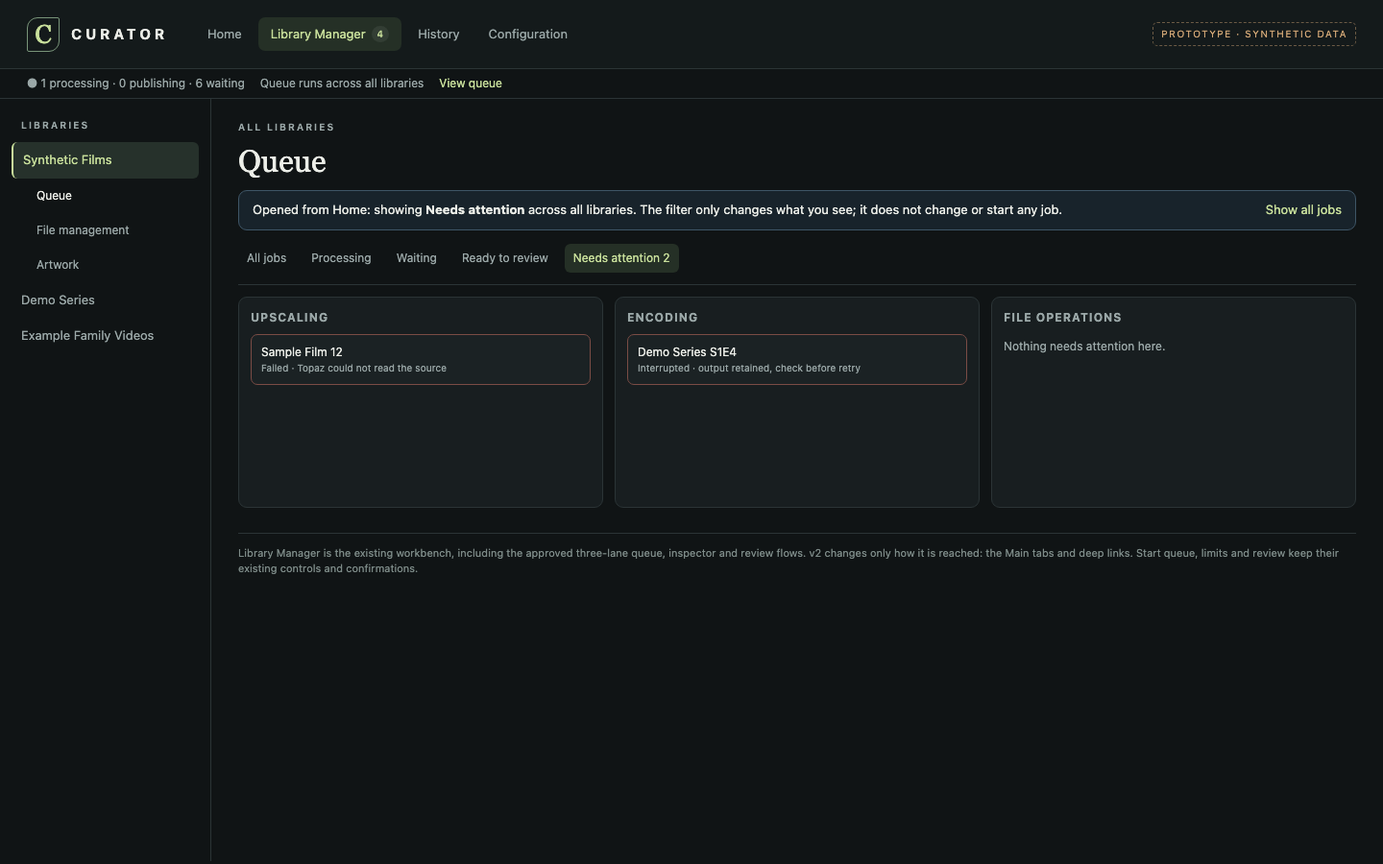
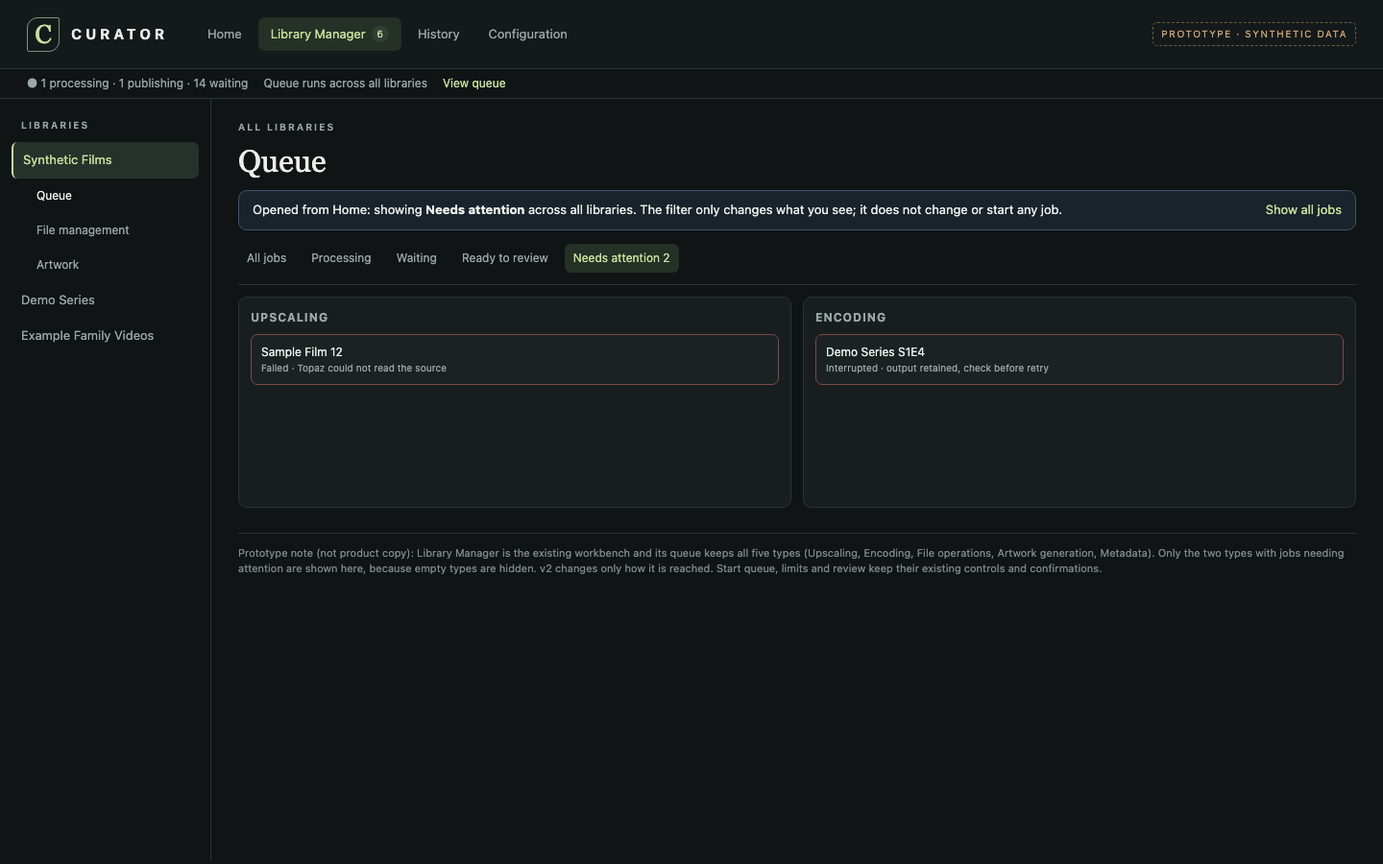
Home/navigation design: all five queue types, separate review destinations, no engineering copy (#104)
Addresses Codex review of 0d2feff: describe the queue as the existing five
task types with empty types hidden and add a populated queue render; route
metadata and artwork reviews to their existing flows with separate counts;
move issue numbers and implementation disclaimers out of product copy.

diff --git a/docs/designs/v2-home-navigation-20261120/prototype.html b/docs/designs/v2-home-navigation-20261120/prototype.html
@@ -1,7 +1,7 @@
 <!doctype html>
 <html lang="en"><head><meta charset="utf-8"><meta name="viewport" content="width=device-width,initial-scale=1">
 <title>Curator v2 — Home and navigation prototype</title>
-<!-- Design prototype for issue #104. Synthetic data only; not served by Curator and not wired to any API. -->
+<!-- Design prototype for issue #104 (provenance only; no issue numbers in product copy). Synthetic data only; not served by Curator and not wired to any API. -->
 <style>
 :root{color-scheme:dark;--bg:#101415;--panel:#181e20;--panel2:#1c2426;--line:#2b3436;--text:#eceee8;--muted:#9ba8a8;--accent:#c8df9b;--warm:#d2a776;--bad:#e5a49b;--info:#9ec3df}
 *{box-sizing:border-box}body{margin:0;background:var(--bg);color:var(--text);font:14px/1.5 -apple-system,BlinkMacSystemFont,"Segoe UI",sans-serif}
@@ -30,7 +30,7 @@ main{padding:26px 34px 60px;max-width:1280px;min-width:0}h1{font-family:Georgia,
 /* Library Manager: the existing workbench, unchanged */
 .workbench{display:grid;grid-template-columns:220px minmax(0,1fr);min-height:calc(100vh - 106px)}.side{border-right:1px solid var(--line);padding:20px 12px}.side a{display:block;color:var(--muted);padding:9px 10px;border-radius:6px;font-size:13px}.side a.sel{background:#26312b;color:var(--accent);border-left:2px solid var(--accent)}.side .sublink{padding-left:26px;font-size:12px}.side .sublink.sel{background:none;border:0;color:var(--text)}
 .wb-main{padding:22px 28px}.toolbar{display:flex;gap:8px;flex-wrap:wrap;border-bottom:1px solid var(--line);padding-bottom:12px;margin-bottom:12px}.toolbar a{font-size:12px;color:var(--muted);padding:6px 9px;border-radius:6px}.toolbar a.active{color:var(--accent);background:#253026}
-.lanes{display:grid;grid-template-columns:repeat(3,minmax(0,1fr));gap:12px}.lane{border:1px solid var(--line);border-radius:9px;background:var(--panel);padding:12px;min-height:220px}.lane h3{font-size:12px;margin:0 0 8px;color:var(--muted);letter-spacing:1px}.job{border:1px solid #303b3c;border-radius:7px;padding:9px 10px;margin:7px 0;font-size:12px;background:#1b2224}.job.attn{border-color:#7a4c45}.job small{display:block;color:var(--muted)}
+.lane .more{padding:4px 10px;font-size:12px;margin-top:4px}.lanes{display:grid;grid-template-columns:repeat(auto-fit,minmax(210px,1fr));gap:12px}.lane{border:1px solid var(--line);border-radius:9px;background:var(--panel);padding:12px;min-height:220px}.lane h3{font-size:12px;margin:0 0 8px;color:var(--muted);letter-spacing:1px}.job{border:1px solid #303b3c;border-radius:7px;padding:9px 10px;margin:7px 0;font-size:12px;background:#1b2224}.job.attn{border-color:#7a4c45}.job small{display:block;color:var(--muted)}
 .split{display:grid;grid-template-columns:minmax(0,1.2fr) minmax(280px,1fr);gap:14px}.inspector{border:1px solid #3b493d;border-radius:10px;background:#1c241f;padding:16px}.inspector input,.inspector textarea{width:100%;background:#11191a;color:var(--text);border:1px solid #3b4747;border-radius:6px;padding:8px;margin:4px 0 10px;font:inherit}
 .row{display:flex;gap:8px;align-items:center;flex-wrap:wrap}.muted{color:var(--muted);font-size:12px}
 .history-row{border-bottom:1px solid var(--line);padding:12px 4px;display:flex;gap:12px;align-items:center}.history-row div{flex:1}.history-row p{margin:2px 0;font-size:12px;color:var(--muted)}
@@ -55,15 +55,15 @@ const ARRIVALS=[['Sample Film 31','films','ok'],['Sample Film 32','films','todo:
 const HEALTH=[['films','Movies',[96,null,null,81,88]],['series','TV Shows',[99,null,null,90,93]],['family','Other Videos',[62,48,71,85,null]]];
 const DIMS=['Metadata','Cast','Artwork','Upscaling','Re-encoding'];
 const hash=new URLSearchParams(location.hash.slice(1)),S=hash.get('s')||'home';
-const route={home:'home',loading:'home',error:'home',empty:'home',focus:'home',library:'library',draft:'library',history:'history',config:'config'}[S]||'home';
+const route={home:'home',loading:'home',error:'home',empty:'home',focus:'home',library:'library',queue:'library',draft:'library',history:'history',config:'config'}[S]||'home';
 const h=(tag,attrs={},...kids)=>{const e=document.createElement(tag);for(const [k,v] of Object.entries(attrs)){if(k==='class')e.className=v;else if(k.startsWith('on'))e[k]=v;else if(v!=null&&v!==false)e.setAttribute(k,v===true?'':v);}for(const k of kids.flat())if(k!=null&&k!==false)e.append(k instanceof Node?k:document.createTextNode(k));return e;};
 const link=(href,text,attrs={})=>h('a',{href,...attrs},text);
 // Routes are the navigation contract in README.md. Every link below is a real, shareable hash URL.
 const R={home:'#/home',lib:(id,view,q='')=>`#/library/${id}/${view}${q}`,history:q=>'#/history'+q,config:p=>'#/configuration/'+p};
-function tabs(){const t=document.getElementById('tabs');const items=[['home','Home',R.home],['library','Library Manager',R.lib('films','files'),h('span',{class:'count',title:'Results ready to review'},'4')],['history','History',R.history('')],['config','Configuration',R.config('standards/movie')]];
+function tabs(){const t=document.getElementById('tabs');const items=[['home','Home',R.home],['library','Library Manager',R.lib('films','files'),h('span',{class:'count',title:'Ready to review: 3 results to publish, 2 metadata suggestions, 1 artwork change'},'6')],['history','History',R.history('')],['config','Configuration',R.config('standards/movie')]];
  t.replaceChildren(...items.map(([key,label,href,badge])=>h('a',{href,'aria-current':route===key?'page':null,class:S==='focus'&&key==='library'?'force-focus':null},label,badge||null)));}
 function status(){const s=document.getElementById('status');s.replaceChildren(
- S==='error'?h('span',{class:'bad'},'Connection interrupted. Showing the update from 14:02; reconnecting automatically.'):h('span',{},'● 1 processing · 0 publishing · 6 waiting'),
+ S==='error'?h('span',{class:'bad'},'Connection interrupted. Showing the update from 14:02; reconnecting automatically.'):h('span',{},'● 1 processing · 1 publishing · 14 waiting'),
  h('span',{},'Queue runs across all libraries'),link(R.lib('films','queue'),'View queue'));}
 // ---- Home ----
 function home(){
@@ -73,12 +73,14 @@ function home(){
  const grid=h('div',{class:'home'});
  const loading=S==='loading',sk=n=>Array.from({length:n},()=>h('div',{class:'skeleton'}));
  // 1. Decisions
- grid.append(h('section',{class:'card span-7','aria-labelledby':'d-h'},h('div',{class:'card-head'},h('h2',{id:'d-h'},'Needs your decision'),link(R.lib('all','review'),'Open review')),
+ grid.append(h('section',{class:'card span-7','aria-labelledby':'d-h'},h('div',{class:'card-head'},h('h2',{id:'d-h'},'Needs your decision'),link(R.lib('all','queue','?status=review'),'All reviews')),
   ...(loading?sk(3):[
-   decision('4','Results are ready to review','Upscales and encodes wait for your comparison before publishing',R.lib('all','review'),'Review results'),
+   decision('3','Results are ready to publish','Upscales, encodes and joins wait for your comparison before publishing',R.lib('all','review','?kind=all'),'Review results'),
+   decision('2','Metadata suggestions to review','Preview each change, then save it to Plex yourself',R.lib('all','queue','?status=review&lane=metadata'),'Review metadata'),
+   decision('1','Artwork change to approve','Compare the current and proposed artwork before it is queued',R.lib('films','artwork','?status=review'),'Review artwork'),
    decision('2','Jobs need attention','One failed, one interrupted · History shows the safe next step',R.lib('all','queue','?status=attention'),'Open in Queue','bad'),
    decision('9','Family videos are missing dates','Other Videos standard · Metadata',R.lib('family','files','?view=attention&dimension=metadata'),'Open in Library Manager','warm'),
-   decision('1','Standards question','“Preserve originals” wording needs your confirmation',R.config('standards/other_videos'),'Open Configuration','warm')])));
+   decision('1','Standards question','An Other Videos setting needs your confirmation',R.config('standards/other_videos'),'Open Configuration','warm')])));
  // 2. Work accomplished
  grid.append(h('section',{class:'card span-5','aria-labelledby':'w-h'},h('div',{class:'card-head'},h('h2',{id:'w-h'},'Work accomplished'),h('span',{class:'muted'},'Last 7 days')),
   ...(loading?sk(3):[h('div',{class:'stat'},h('div',{},h('b',{},'38'),h('small',{},'jobs completed')),h('div',{},h('b',{},'11'),h('small',{},'upscales published')),h('div',{},h('b',{},'214 GB'),h('small',{},'saved by re-encoding'))),
@@ -89,11 +91,11 @@ function home(){
  // 4. Library health
  grid.append(h('section',{class:'card span-4','aria-labelledby':'hl-h'},h('div',{class:'card-head'},h('h2',{id:'hl-h'},'Library health'),link(R.config('standards/movie'),'Standards')),
   loading?h('div',{},...sk(4)):h('table',{class:'health'},h('thead',{},h('tr',{},h('th',{},'Library'),h('th',{},'Lowest dimension'))),h('tbody',{},...HEALTH.map(([id,type,v])=>{const on=v.map((x,i)=>[x,DIMS[i]]).filter(([x])=>x!=null).sort((a,b)=>a[0]-b[0]);const [pct,dim]=on[0];return h('tr',{},h('td',{},link(R.lib(id,'files','?view=attention'),LIBS.find(l=>l.id===id).title),h('div',{class:'muted'},type+' · '+on.length+' of 5 dimensions')),h('td',{},h('span',{class:'bar'},h('i',{style:`width:${pct}%`})),pct+'% '+dim.toLowerCase()));}))),
-  h('p',{class:'muted',style:'margin:8px 0 0'},'Percent of items meeting each enabled dimension of the library’s standard (#107). Dimensions a standard turns off are not counted.')));
+  h('p',{class:'muted',style:'margin:8px 0 0'},'Percent of items meeting each enabled dimension of the library’s standard. Dimensions a standard turns off are not counted.')));
  // 5. Seer + recommendations: future sources with explicit empty states
- grid.append(h('section',{class:'card span-6','aria-labelledby':'s-h'},h('div',{class:'card-head'},h('h2',{id:'s-h'},'Requests that landed')),h('div',{class:'empty'},'Seer is not connected. Requests will appear here once matching to Plex is agreed (#114) and connected (#115).')));
- grid.append(h('section',{class:'card span-6','aria-labelledby':'r-h'},h('div',{class:'card-head'},h('h2',{id:'r-h'},'Worth watching')),h('div',{class:'empty'},'Recommendations are not set up. Sources and permissions are being agreed (#112); nothing is requested or bought from here.')));
- m.append(grid);m.append(h('p',{class:'note'},'Prototype for issue #104. Synthetic libraries, titles and counts. Library health and arrival status need standards evaluation (#107); Requests and Worth watching show their not-connected states.'));
+ grid.append(h('section',{class:'card span-6','aria-labelledby':'s-h'},h('div',{class:'card-head'},h('h2',{id:'s-h'},'Requests that landed')),h('div',{class:'empty'},'Seer is not connected. Requests that have landed in Plex will appear here once it is.')));
+ grid.append(h('section',{class:'card span-6','aria-labelledby':'r-h'},h('div',{class:'card-head'},h('h2',{id:'r-h'},'Worth watching')),h('div',{class:'empty'},'Recommendations are not set up yet. Nothing is requested or bought from here.')));
+ m.append(grid);m.append(h('p',{class:'note'},'Prototype note (not product copy): synthetic libraries, titles and counts. Health and arrival status need standards evaluation; Requests and Worth watching show their not-connected states.'));
  return m;
 }
 function decision(n,title,detail,href,action,tone=''){return h('div',{class:'decision'},h('span',{class:'n '+tone},n),h('p',{},title,h('small',{},detail)),link(href,action));}
@@ -101,14 +103,19 @@ function decision(n,title,detail,href,action,tone=''){return h('div',{class:'dec
 function library(){
  const wrap=h('div',{class:'workbench'});
  const side=h('nav',{class:'side','aria-label':'Libraries'},h('div',{class:'eyebrow',style:'margin:0 10px 10px'},'LIBRARIES'),
-  ...LIBS.flatMap(l=>l.id==='films'?[link(R.lib(l.id,'files'),l.title,{class:'sel','aria-current':'true'}),link(R.lib(l.id,'queue'),'Queue',{class:'sublink'+(S==='library'?' sel':'')}),link(R.lib(l.id,'filemanagement'),'File management',{class:'sublink'}),link(R.lib(l.id,'artwork'),'Artwork',{class:'sublink'})]:[link(R.lib(l.id,'files'),l.title)]));
+  ...LIBS.flatMap(l=>l.id==='films'?[link(R.lib(l.id,'files'),l.title,{class:'sel','aria-current':'true'}),link(R.lib(l.id,'queue'),'Queue',{class:'sublink'+(S==='library'||S==='queue'?' sel':'')}),link(R.lib(l.id,'filemanagement'),'File management',{class:'sublink'}),link(R.lib(l.id,'artwork'),'Artwork',{class:'sublink'})]:[link(R.lib(l.id,'files'),l.title)]));
  const main=h('main',{class:'wb-main',id:'main',tabindex:'-1'});
- if(S==='library'){
+ if(S==='queue'){
+  main.append(h('div',{class:'eyebrow'},'ALL LIBRARIES'),h('h1',{},'Queue'),
+   h('div',{class:'toolbar'},...[['All jobs 24',''],['Processing 2','running'],['Waiting 14','queued'],['Ready to review 6','review'],['Needs attention 2','attention']].map(([t,v])=>link(R.lib('all','queue','?status='+v),t,{class:v===''?'active':''}))),
+   h('div',{class:'lanes'},...QUEUE.map(([title,running,jobs,more])=>lane(title,jobs,running,more))),
+   h('p',{class:'note'},'Prototype note (not product copy): all five queue types are shown because each has jobs. A type with no jobs in the current filter is hidden. Long waiting groups collapse; running and publishing work stays visible. Results ready to publish are counted under Ready to review and compared there, not shown in the lanes; artwork and metadata reviews stay in their own lanes and flows.'));
+ }else if(S==='library'){
   main.append(h('div',{class:'eyebrow'},'ALL LIBRARIES'),h('h1',{},'Queue'),
    h('div',{class:'banner info'},h('p',{},'Opened from Home: showing ',h('b',{},'Needs attention'),' across all libraries. The filter only changes what you see; it does not change or start any job.'),link(R.lib('all','queue'),'Show all jobs')),
    h('div',{class:'toolbar'},...[['All jobs',''],['Processing','running'],['Waiting','queued'],['Ready to review','review'],['Needs attention 2','attention']].map(([t,v])=>link(R.lib('all','queue','?status='+v),t,{class:v==='attention'?'active':''}))),
-   h('div',{class:'lanes'},lane('UPSCALING',[['Sample Film 12','Failed · Topaz could not read the source',true]]),lane('ENCODING',[['Demo Series S1E4','Interrupted · output retained, check before retry',true]]),lane('FILE OPERATIONS',[])),
-   h('p',{class:'note'},'Library Manager is the existing workbench, including the approved three-lane queue, inspector and review flows. v2 changes only how it is reached: the Main tabs and deep links. Start queue, limits and review keep their existing controls and confirmations.'));
+   h('div',{class:'lanes'},lane('UPSCALING',[['Sample Film 12','Failed · Topaz could not read the source',true]]),lane('ENCODING',[['Demo Series S1E4','Interrupted · output retained, check before retry',true]])),
+   h('p',{class:'note'},'Prototype note (not product copy): Library Manager is the existing workbench and its queue keeps all five types (Upscaling, Encoding, File operations, Artwork generation, Metadata). Only the two types with jobs needing attention are shown here, because empty types are hidden. v2 changes only how it is reached. Start queue, limits and review keep their existing controls and confirmations.'));
  }else{
   main.append(h('div',{class:'eyebrow'},'SYNTHETIC FILMS'),h('h1',{},'Synthetic Films'),h('div',{class:'toolbar'},link(R.lib('films','files','?view=attention'),'Needs attention 12',{class:'active'}),link(R.lib('films','files','?view=files'),'All files 140'),link(R.lib('films','files','?view=completed'),'Completed 96')),
    h('div',{class:'split'},h('div',{},...['Sample Film 05','Sample Film 06','Sample Film 07','Sample Film 08'].map((t,i)=>h('div',{class:'job',style:i===2?'border-color:#9db485':''},t,h('small',{},i===2?'Metadata · editing':'Upscale suggested')))),
@@ -116,16 +123,23 @@ function library(){
  }
  wrap.append(side,main);return wrap;
 }
-function lane(title,jobs){return h('section',{class:'lane','aria-label':title},h('h3',{},title),...(jobs.length?jobs.map(([t,s,a])=>h('div',{class:'job'+(a?' attn':'')},t,h('small',{},s))):[h('p',{class:'muted'},'Nothing needs attention here.')]));}
+function lane(title,jobs,running,more){return h('section',{class:'lane','aria-label':title},h('h3',{},title),running?h('p',{class:'muted',style:'margin:0 0 8px;font-size:12px'},running):null,...jobs.map(([t,s,a])=>h('div',{class:'job'+(a?' attn':'')},t,h('small',{},s))),more?h('button',{class:'more'},'Show '+more+' more'):null);}
+const QUEUE=[
+ ['UPSCALING','1 running · limit 1 · across all libraries',[['Sample Film 14','Processing · 42%'],['Sample Film 15','Waiting · position 1'],['Sample Film 16','Waiting · position 2'],['Sample Film 12','Failed · Topaz could not read the source',true]],4],
+ ['ENCODING','0 running · limit 1',[['Demo Series S1E6','Waiting · position 1'],['Demo Series S1E5','Waiting · position 2'],['Demo Series S1E4','Interrupted · output retained, check before retry',true]],3],
+ ['FILE OPERATIONS','Copy/delete: 1 running total · limit 4',[['Trip - Part 1','Publishing · copying'],['Clean up originals','Waiting · 2 retained originals']],0],
+ ['ARTWORK GENERATION','0 running · limit 1',[['Sample Film 09','Waiting · approved quote, poster 2:3'],['Example Family Videos','Ready to review · background']],0],
+ ['METADATA','0 running · limit 1',[['Birthday 2026','Ready to review · 3 suggested fields'],['Beach Day','Ready to review · people'],['Sample Film 07','Waiting · apply saved changes']],0],
+];
 // ---- History: arrives with the filters from Home's link ----
 function history(){
  const m=h('main',{id:'main',tabindex:'-1'},h('div',{class:'eyebrow'},'HISTORY'),h('h1',{},'History'),
   h('div',{class:'banner info'},h('p',{},'Opened from Home → Work accomplished. Filters are in the address, so this view can be bookmarked or opened again.'),link(R.history(''),'Clear filters')),
   h('div',{class:'filters'},h('span',{},'Show ',h('b',{},'Jobs')),h('span',{},'Library ',h('b',{},'All libraries')),h('span',{},'When ',h('b',{},'Last 7 days')),h('span',{},'Status ',h('b',{},'Completed'))));
  for(const [t,k,who] of [['Sample Film 20','Upscale video · applied','Queued by You'],['Demo Series S2E1','Optimize encoding · applied','Queued by You'],['Birthday 2026','Metadata · applied','AI-assisted']])m.append(h('div',{class:'history-row'},h('div',{},h('b',{},t),h('p',{},k+' · '+who)),h('button',{},'View')));
- m.append(h('p',{class:'note'},'History is the existing screen from #86 and #111; v2 only reaches it from the Main tabs and from Home links with filters in the URL.'));return m;
+ m.append(h('p',{class:'note'},'Prototype note (not product copy): History is the existing screen; v2 only reaches it from the Main tabs and from Home links with filters in the URL.'));return m;
 }
-function config(){return h('main',{id:'main',tabindex:'-1'},h('div',{class:'eyebrow'},'CONFIGURATION'),h('h1',{},'Configuration'),h('p',{class:'sub'},'Connections & tools and Processing defaults (today’s Settings), Standards by Plex type and Library overrides. The standards screens are proposed separately in #105.'),
+function config(){return h('main',{id:'main',tabindex:'-1'},h('div',{class:'eyebrow'},'CONFIGURATION'),h('h1',{},'Configuration'),h('p',{class:'sub'},'Connections & tools and Processing defaults (today’s Settings), Standards by Plex type and Library overrides.'),
  h('div',{class:'home'},...[['Connections & tools','Plex, tools, global thresholds',R.config('connections')],['Processing defaults','Per-library encode and upscale presets',R.config('processing')],['Standards by Plex type','Movies · TV Shows · Other Videos',R.config('standards/movie')],['Library overrides','Per-library differences',R.config('library/films')]].map(([t,d,href])=>h('a',{class:'card span-6',href},h('h2',{},t),h('p',{class:'muted'},d)))));}
 // ---- Render ----
 tabs();status();const page=document.getElementById('page');page.append(({home,library,history,config})[route]());

diff --git a/docs/designs/v2-home-navigation-20261120/README.md b/docs/designs/v2-home-navigation-20261120/README.md
@@ -1,10 +1,10 @@
 # Home and main navigation — proposed design, 2026-11-20
 
-Design for issue #104. **Status: proposed, awaiting operator approval.** This package holds a static prototype with synthetic data, its renders and a proposed navigation contract. It is not served by Curator, calls no API, and authorizes no implementation. #108 (navigation) and #110 (Home) implement it after approval and after the contract below is frozen.
+Design for issue #104. **Status: operator approved the displayed desktop direction on 2026-11-21 ("this looks good"); review corrections below are pending exact-head cross-review. Mobile and error scenarios have not been separately approved.** This package holds a static prototype with synthetic data, its renders and a proposed navigation contract. It is not served by Curator, calls no API, and authorizes no implementation. #108 (navigation) and #110 (Home) implement it after approval and after the contract below is frozen.
 
 Baseline: v2 `146d6ede13fe28befe76bcf9c8c4f57c32061ffa`. Sources: [product direction](../../curator-v2.md), [standards](../../curator-v2-standards.md), [history](../../curator-v2-history.md), and the approved [queue feature lock](../queue-20261117/feature-lock.md).
 
-Open `prototype.html` in a browser. `#s=` picks a scenario: `home`, `loading`, `error`, `empty`, `focus`, `library`, `draft`, `history`, `config`. Links inside the prototype show the proposed routes but do not navigate between scenarios. Every name, title and count is synthetic.
+Open `prototype.html` in a browser. `#s=` picks a scenario: `home`, `loading`, `error`, `empty`, `focus`, `library`, `queue`, `draft`, `history`, `config`. Links inside the prototype show the proposed routes but do not navigate between scenarios. Every name, title and count is synthetic.
 
 ## Renders
 
@@ -15,10 +15,11 @@ Open `prototype.html` in a browser. `#s=` picks a scenario: `home`, `loading`, `
 | [error.png](error.png) | Refresh failed: last update kept and dated, retry offered, queue unaffected |
 | [empty.png](empty.png) | No libraries connected: one action, to Configuration → Connections |
 | [focus.png](focus.png) | Keyboard: skip link and a visible focus ring on the main tabs |
-| [library.png](library.png) | Library Manager entered from Home's "Jobs need attention": the approved three-lane queue with a visible, removable filter |
+| [library.png](library.png) | Library Manager entered from Home's "Jobs need attention": the existing queue with a visible, removable filter. Only the two types with matching jobs are shown, because empty types are hidden |
+| [queue.png](queue.png) | The unfiltered queue with all five types populated: Upscaling, Encoding, File operations, Artwork generation and Metadata. Long waiting groups collapse; running and publishing work stays visible |
 | [draft.png](draft.png) | Leaving Library Manager with an unsaved editor: Keep editing / Discard and leave |
 | [history.png](history.png) | History entered from "Work accomplished": filters come from the link and can be cleared |
-| [config.png](config.png) | Configuration landing: today's Settings plus the standards sections proposed in #105 |
+| [config.png](config.png) | Configuration landing: today's Settings plus the standards sections (#105) |
 | [phone-home.png](phone-home.png), [phone-library.png](phone-library.png) | 390 px: tabs scroll sideways, cards stack, no horizontal page scroll |
 
 ## Main navigation
@@ -26,7 +27,7 @@ Open `prototype.html` in a browser. `#s=` picks a scenario: `home`, `loading`, `
 Four top-level tabs: **Home**, **Library Manager**, **History**, **Configuration**. A thin status line under the tabs, present on every tab, shows the live queue summary and that the queue runs across all libraries.
 
 - **Home** is new. It is read-only: every item is a link into the matching work. Home never starts, pauses, approves, publishes, purchases or requests anything.
-- **Library Manager** is today's workbench, unchanged. It keeps the library sidebar, with Queue, File management and Artwork indented under the selected library (approved 2026-11-18), plus the approved three-lane queue, inspector, review flows, confirmations and limits. The Library Manager tab shows the count of results ready to review, replacing the old sidebar "Ready for review" item as the approved lock asked.
+- **Library Manager** is today's workbench, unchanged. It keeps the library sidebar, with Queue, File management and Artwork indented under the selected library (approved 2026-11-18), plus the existing queue, inspector, review flows, confirmations and limits. The queue keeps all five task types (Upscaling, Encoding, File operations, Artwork generation, Metadata), hides a type with no jobs in the current filter, collapses long waiting groups and keeps active work visible. A render that shows fewer lanes is showing the non-empty ones, not a limit. The Library Manager tab shows the count of everything ready to review (results to publish, metadata suggestions and artwork changes), replacing the old sidebar "Ready for review" item as the approved lock asked.
 - **History** is the existing screen (#86, #111), moved from the sidebar to a tab.
 - **Configuration** holds today's Settings (Connections & tools, Processing defaults) plus Standards by Plex type and Library overrides (#105).
 
@@ -34,7 +35,7 @@ Four top-level tabs: **Home**, **Library Manager**, **History**, **Configuration
 
 Ordered for "review by exception": what needs you comes first.
 
-1. **Needs your decision.** Counts with one link each: results ready to review, jobs needing attention (with History's safe next step), items missing a standard's required field, and open standards questions.
+1. **Needs your decision.** Counts with one link each: results ready to publish, metadata suggestions to review and artwork changes to approve (three separate counts, each opening its own existing review flow; see Review destinations), jobs needing attention (with History's safe next step), items missing a standard's required field, and open standards questions.
 2. **Work accomplished.** Last 7 days: jobs completed, upscales published, space saved, and who started them (you, rules, AI-assisted). Links to History with those filters.
 3. **New in Plex.** Recent arrivals, each with its status against its library's standard. Each opens the item in Library Manager.
 4. **Library health.** One row per library: its Plex type, how many dimensions its standard turns on, and its lowest dimension as a percentage of items meeting it. Dimensions turned off are not counted, and health is not shown as a single grade.
@@ -51,10 +52,24 @@ Routes are hash URLs, so a view can be bookmarked, linked from Homebase, and rea
 | `#/home` | Home | — |
 | `#/library/<id>/files` | Library view of one library | `view=attention\|files\|completed`, `group=folder\|task\|movie`, `dimension=<standard dimension>`, `asset=<id>` |
 | `#/library/<id\|all>/queue` | Queue, filtered to one library or all | `status=all\|running\|queued\|review\|attention` |
-| `#/library/<id\|all>/review` | Ready to review | `kind=upscale\|optimize\|join` |
-| `#/library/<id>/filemanagement`, `#/library/<id>/artwork` | Those tools for the library | — |
+| `#/library/<id\|all>/review` | Results ready to publish (the existing review inbox) | `kind=all\|upscale\|optimize\|join` |
+| `#/library/<id\|all>/queue?status=review&lane=metadata` | Metadata suggestions awaiting review, in the Metadata lane | `lane=metadata\|mage_generation\|…` (any queue type; focuses and expands that lane) |
+| `#/library/<id>/filemanagement` | File management for the library | — |
+| `#/library/<id>/artwork` | The Artwork workspace for the library | `status=review` (artwork changes awaiting approval), `asset=<id>` |
 | `#/history` | History | `view=jobs\|curator`, `library=<id>\|all`, `period=all\|1\|7\|30`, `status=…`, `level=…` (the existing History filters) |
 | `#/configuration/<section>` | Configuration | `connections`, `processing`, `standards/<kind>`, `library/<id>` |
+
+### Review destinations
+
+There is no single combined review screen. Each kind of review keeps the flow it has today, and Home and the tab badge count them separately:
+
+| Ready to review | Where it opens | Its existing flow (unchanged) |
+| --- | --- | --- |
+| Upscale, encode and join results | `#/library/<id\|all>/review` | Source/output comparison, accept, reject or skip, then publication through the File operations queue |
+| Metadata suggestions | `#/library/<id\|all>/queue?status=review&lane=metadata` | The Metadata lane and its inspector: preview, explicit save/apply, Plex readback |
+| Artwork changes and generated artwork | `#/library/<id>/artwork?status=review` | The Artwork workspace: compare current and proposed, approve and queue; paid generation keeps its quote and Generate approval |
+
+The badge total is the sum of the three counts. Results to publish are not shown inside the queue lanes, as today; they are reached from Ready to review.
 
 Rules:
 
@@ -68,8 +83,12 @@ Rules:
 ## Questions for the operator
 
 - **Order of Home sections.** Decisions → accomplishments → arrivals → health, with discovery last for now. The brief expects discovery to take more space as maintenance becomes routine. Is this order right for today?
-- **Library Manager badge.** Should the tab count only results ready to review (proposed), or also jobs needing attention?
+- **Library Manager badge.** Should the tab count everything ready to review (results, metadata and artwork; proposed), or also jobs needing attention?
 - **Greeting.** Keep the time-of-day heading, or use a plain "Home"?
+
+## Product copy
+
+Product-facing text names no engineering issues and carries no implementation disclaimers. Text in the prototype marked "Prototype note" is design provenance and is not product copy; the issue numbers are kept in this README only.
 
 ## Boundaries
 
